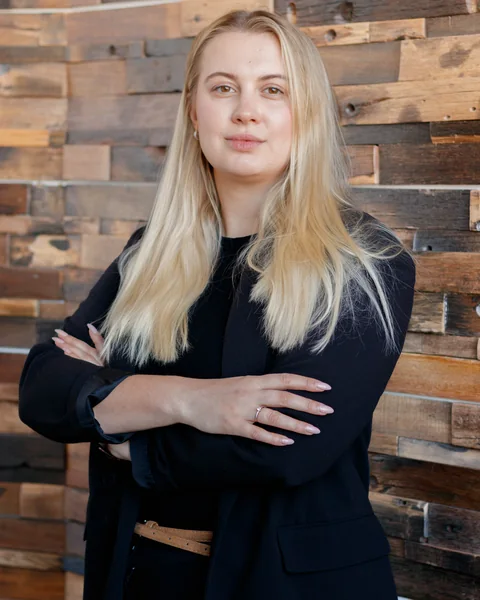
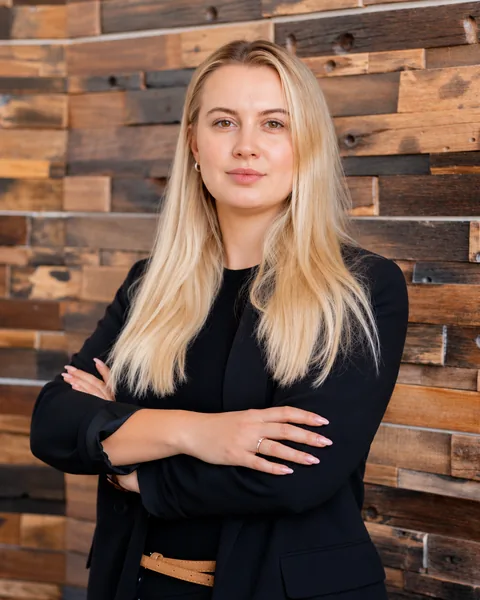
Update portfolio design and profile image

diff --git a/src/sections/About.tsx b/src/sections/About.tsx
@@ -22,7 +22,7 @@ export function About() {
             <figure className="about__photo">
               <img
                 src={asset('images/olesia-portrait.webp')}
-                srcSet={`${asset('images/olesia-portrait-480.webp')} 480w, ${asset('images/olesia-portrait.webp')} 800w`}
+                srcSet={`${asset('images/olesia-portrait-480.webp')} 480w, ${asset('images/olesia-portrait.webp')} 800w, ${asset('images/olesia-portrait-1024.webp')} 1024w`}
                 sizes="(max-width: 899px) 90vw, 40vw"
                 width={800}
                 height={1000}

diff --git a/src/data/content.ts b/src/data/content.ts
@@ -202,7 +202,7 @@ export const about = {
     text: 'Four degrees, a QC/QA course, and now technology and leadership training at i.c.stars.',
     evidence: 'KUL · SGH · TOMMY · i.c.stars',
   },
-  photoAlt: 'Olesia Dmytrush, professional portrait in a black blazer with arms crossed',
+  photoAlt: 'Olesia Dmytrush, professional portrait in a black blazer with arms crossed, in front of a wooden wall',
 }
 
 /* ─────────────────────── EXPERIENCE ─────────────────────── */

diff --git a/README.md b/README.md
@@ -178,7 +178,7 @@ automatically once the list is not empty.
 | `public/hero/hero-desk-ai.webp` (+ `-1300`, `-1000`) | The aligned “AI side” of the same photo, shown through the reveal (see `design-source/README.md`) |
 | `public/hero/hero-ai-eye.webp` | Eye detail shown inside the hero “Let’s connect” button on hover |
 | `public/videos/*.mp4` + `*.webp` | AI film scenes, Cycle Soundtrack video and posters |
-| `public/images/olesia-portrait*.webp` | About photo (Cycle 60 headshot) |
+| `public/images/olesia-portrait*.webp` | About photo (professional portrait; source crop in `design-source/olesia-portrait-source.png`) |
 | `public/images/techbash/*.webp` | TechBash 2026 photos on the Cycle Soundtrack page |
 | `public/images/qa-diploma*.webp` | QC/QA diploma |
 | `public/og-image.jpg` | Link preview image (1200 × 630) |
